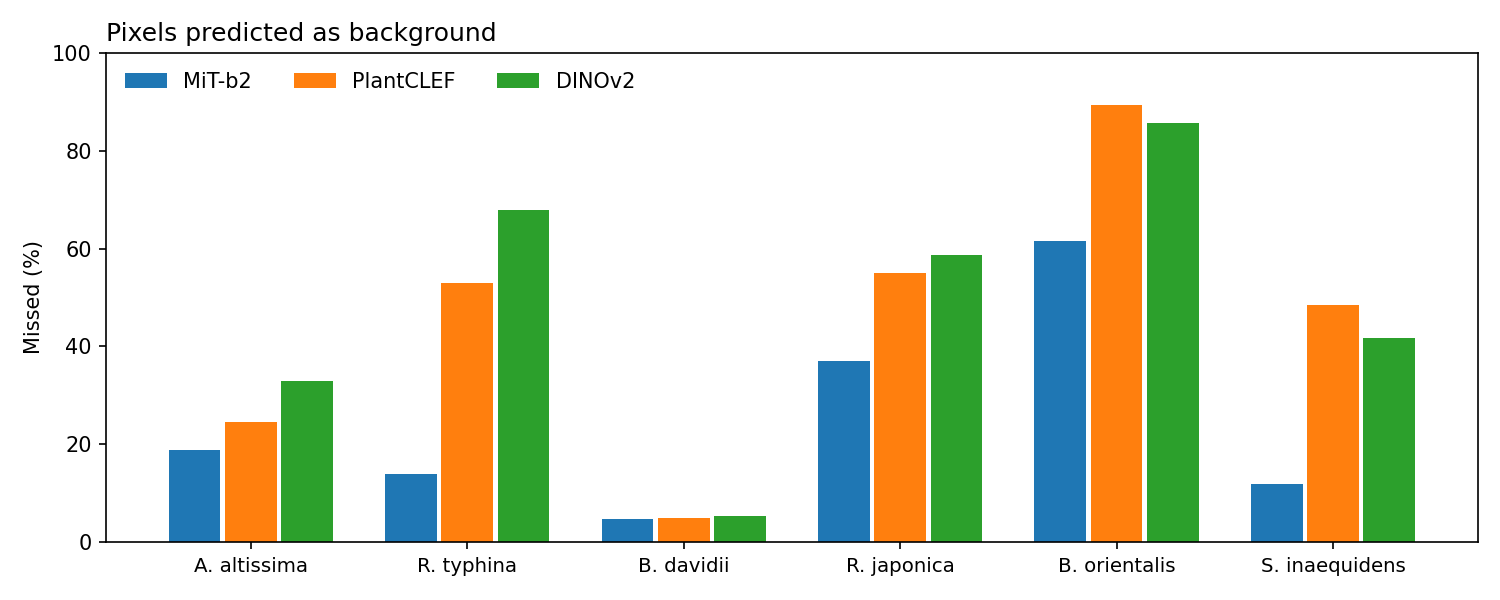
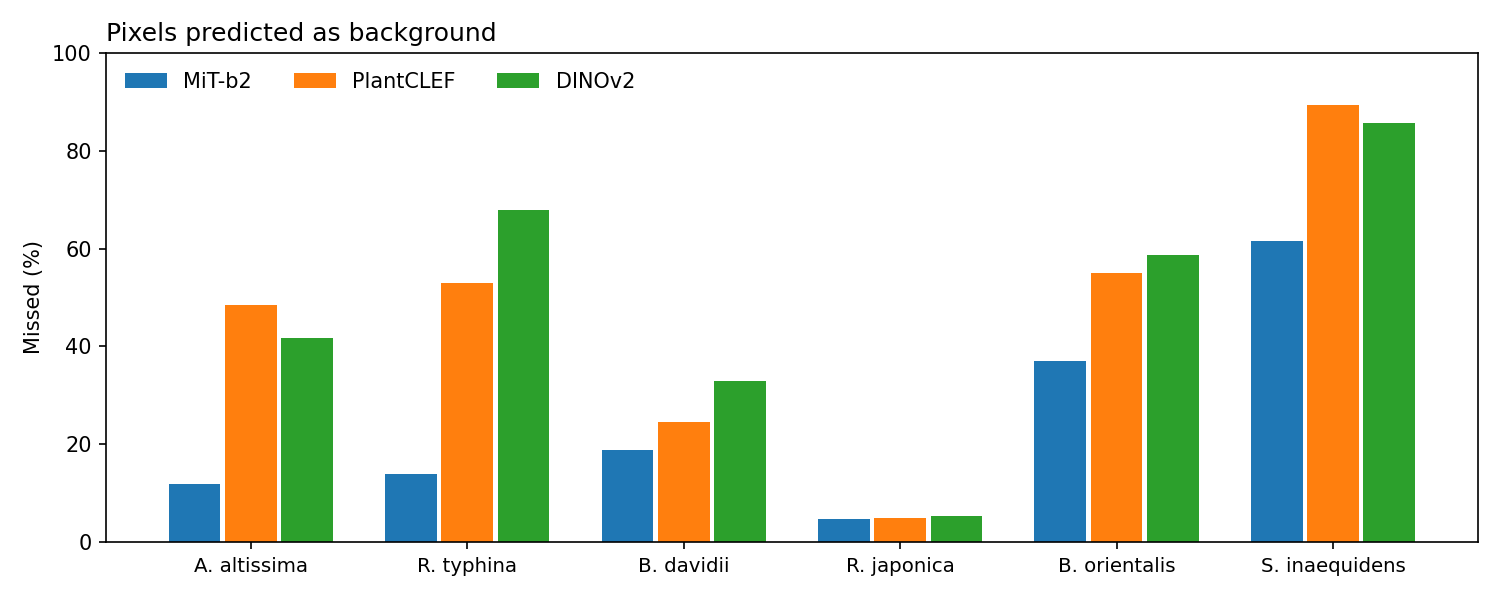
ViT analysis: fix species labels of the missed-pixels figure, add per-species table
plot_vit_512.py read the confusion matrix rows in display order although they
are in class-index order, so 3_missed_as_background.png had the wrong species
under the bars. The analysis note now has the per-species table and says that
the two trees lose the most pixels to background, not only the small herbs.

diff --git a/scripts/plot_vit_512.py b/scripts/plot_vit_512.py
@@ -33,6 +33,10 @@ ENC = {'mit_b2': ('MiT-b2', 'C0'),
        'vitb14_pc24': ('PlantCLEF', 'C1'),
        'vitb14_dinov2': ('DINOv2', 'C2')}
 SPECIES = ['A. altissima', 'R. typhina', 'B. davidii', 'R. japonica', 'B. orientalis', 'S. inaequidens']
+# metrics_semseg.json stores per-class scores in SPECIES (display) order, but
+# confusion_matrix.npy is in class-index order: these are the rows of SPECIES
+# (display_order in configs/data/neophytes_names_colors.yaml)
+CONF_ROWS = [6, 2, 1, 3, 4, 5]
 
 
 def load_runs():
@@ -135,7 +139,8 @@ def plot_missed(runs, out):
     x, w = np.arange(len(SPECIES)), 0.26
     for i, (enc, (name, col)) in enumerate(ENC.items()):
         conf = sum(r['conf'] for r in by_enc(runs, enc))
-        ax.bar(x + (i - 1) * w, 100 * conf[1:, 0] / conf[1:].sum(1), w * 0.92, color=col, label=name)
+        ax.bar(x + (i - 1) * w, 100 * conf[CONF_ROWS, 0] / conf[CONF_ROWS].sum(1), w * 0.92,
+               color=col, label=name)
     ax.set_xticks(x, SPECIES, fontsize=9.5)
     ax.set_ylabel('Missed (%)')
     ax.set_ylim(0, 100)

diff --git a/docs/plantclef2024_vit_analysis_zh.md b/docs/plantclef2024_vit_analysis_zh.md
@@ -13,8 +13,9 @@
 
 ## 0. 一句话结论
 
-ViT 在训练 crop 上拟合得比 b2 还好，但到新站点掉得多，丢的几乎都是**稀疏、细碎、小目标的物种像素（被判成背景）**。
-最可能的主因是 **ViT 最细只有约 3 cm 一个 token，U-Net 的高分辨率 skip 拿不到真实的局部细节**。
+ViT 在训练 crop 上拟合得比 b2 还好，但到新站点掉得多，丢的几乎都是**被判成背景的物种像素**，物种之间的混淆没有变多。
+按物种看，漏检涨得最多的是两种树 **A. altissima、R. typhina** 和小草本 **S. inaequidens**（见 1.3），所以不能简单说成"只丢小目标"。
+最可能的主因是 **ViT 最细只有约 3 cm 一个 token，U-Net 的高分辨率 skip 拿不到真实的局部细节**，但这个假说还解释不了那两种树（见 3.4）。
 "测试时整张 tile 输入、position embedding 插值"和"校准/阈值"可能也有贡献，但还没量化。
 预训练用 PlantCLEF 还是 DINOv2 不是瓶颈，"PlantCLEF 照片里植物在中心"也不是原因。
 
@@ -50,7 +51,15 @@ ViT 在训练 crop 上拟合得比 b2 还好，但到新站点掉得多，丢的
 
 ### 1.3 丢的是哪些像素
 
-- **错误类型**：几乎全是"物种 → 背景"（ViT 的 precision 更高、recall 更低）。物种之间几乎不混淆。
+- **错误类型**：几乎全是"物种 → 背景"（PlantCLEF vs b2：物种平均 recall 0.57 vs 0.77，precision 0.76 vs 0.67）。物种之间的混淆没有变多：两者主要都是 A. altissima → R. typhina（b2 占 A. altissima 像素的 9%，PlantCLEF 5%），但因为 A. altissima 像素多，这部分仍占 PlantCLEF 预测为 R. typhina 的像素的 39%（b2 32%）。
+- **按物种看，被判成背景的像素比例**（4 个 test run 合计，从混淆矩阵算，已复核；10-29 修正了 `3_missed_as_background.png` 的物种标签）：
+
+  | | A. altissima | R. typhina | B. davidii | R. japonica | B. orientalis | S. inaequidens |
+  | --- | --- | --- | --- | --- | --- | --- |
+  | MiT-b2 | 12% | 14% | 19% | 5% | 37% | 62% |
+  | PlantCLEF | 48% | 53% | 25% | 5% | 55% | 89% |
+
+  涨得最多的是两种树（A. altissima、R. typhina），不只是小草本。A. altissima 也是物种 F1 掉得最多的（配对差 −0.187）。
 - **按冠层密度拆 test recall**【未复核】：密度越低，ViT 落后越多；100% 覆盖时两者一样（97.1 vs 97.6）。
 
   | 冠层密度 | 10–30% | 40–60% | 80% | 90% | 100% |
@@ -115,6 +124,7 @@ ViT 这边的几个设计：
   - 错误几乎全是物种 → 背景；
   - 冠层越稀疏，ViT 掉得越多，100% 覆盖时不掉；
   - 小花掉得多。
+- **反面证据**：A. altissima、R. typhina 是大叶的乔木/灌木，漏检比例却涨得最多（12% → 48%，14% → 53%，见 1.3）。只有这些被漏掉的像素主要来自稀疏的幼株或冠层边缘时，H1 才说得通，需要 V0 确认。
 - 为什么训练站点上看不出来：模型可以靠周围环境（上下文）补回来，ViT 的全局 attention 正好擅长这个。到了新站点，环境变了，只能靠局部证据，而 ViT 缺的恰恰是局部证据。这和"val 好、test 差，而且 cv3 差得最多"一致。
 
 **H2：测试时输入尺寸变大、position embedding 插值（③）。有可能，但影响大小未知。**
@@ -129,7 +139,7 @@ ViT 这边的几个设计：
 
 **H4：预训练域差异，主要是尺度和视角。是背景因素，单独不足以解释。**
 - PlantCLEF 照片多是侧面近摄，大约 0.3 mm/px 量级，一个 14 px patch 只是叶片的一小块。我们是正射俯视、2–3 mm/px，一个 patch 是一整片小叶或一个花序，尺度粗了约 10 倍，视角也完全不同。
-- 但冻结阶段 PlantCLEF 明显比 DINOv2 好（0.63–0.68 vs 0.46–0.47），说明植物知识确实能迁移。微调 30 个 epoch 后两者差别进入噪声，说明这点"植物知识"用我们的标签也学得到。
+- 但冻结阶段 PlantCLEF 明显比 DINOv2 好（0.62–0.68 vs 0.46–0.47），说明植物知识确实能迁移。微调 30 个 epoch 后两者差别进入噪声，说明这点"植物知识"用我们的标签也学得到。
 - 所以预训练数据**不是**限制 test F1 的瓶颈；两个 ViT 共有的架构差异（H1、H2）才是。
 
 **H5：LLRD 让浅层几乎冻住（⑤）。证据最弱，只算可能的加重因素。**
@@ -144,6 +154,7 @@ ViT 这边的几个设计：
 ### 3.4 还解释不了的
 
 - **R. typhina 在 val 上大幅下降**：它是大冠层灌木，不是细碎目标，H1 解释不了，H2 或过拟合更像。
+- **A. altissima、R. typhina 在 test 上漏检大涨**（约一半像素被判成背景，b2 只有 12–14%）：两者都不是细碎目标。除非漏掉的主要是稀疏幼株，否则 H1 解释不了。
 - **开花期 S. inaequidens 只有 1.3%**：比 H1 能解释的严重得多，需要先拆到 tile 和站点看。
 - **cv1 几乎打平、cv3 差很多**：说明问题和特定测试站点强相关，需要知道 cv3 的测试站点有什么特殊（更稀疏？更多开花期？）。
 
@@ -156,7 +167,7 @@ ViT 这边的几个设计：
 目标：先用便宜的实验把 H2、H3 的贡献量化出来，并确认现象是否集中在少数 tile，再决定花 GPU 做哪种改进。
 
 ### V0：按 tile 和站点拆开看（CPU，约 1 小时）
-- **做什么**：用已有的 test 预测，算每个 tile 上 b2 和 PlantCLEF 的物种 F1 和 recall，并单独列出开花期 S. inaequidens、B. orientalis 所在的 tile。把 cv3 测试站点的冠层密度和物候分布与 cv1 对比。
+- **做什么**：用已有的 test 预测，算每个 tile 上 b2 和 PlantCLEF 的物种 F1 和 recall，并单独列出开花期 S. inaequidens、B. orientalis 所在的 tile。把 cv3 测试站点的冠层密度和物候分布与 cv1 对比。另外检查 A. altissima、R. typhina 被漏掉的像素是否集中在低冠层密度的 tile：是的话支持 H1，不是的话说明还有别的原因。
 - **为什么**：如果差距由少数 tile 主导（比如某个站点 ViT 整体失效），那主要问题可能是那个站点的光照或季节，而不是普遍的分辨率问题，改进方向会完全不同。
 - **怎么读结果**：
   - 差距均匀分布在各个 tile，并且和冠层密度相关 → 支持 H1；
@@ -350,7 +361,7 @@ python test.py exp_name=<上面 run 的目录名> ckpt_type=best compute_auc=Fal
 
 ### 8.2 这个目标怎样改变前面的结论
 
-- **Encoder 的排序可能反过来。** 标注越少，预训练的作用越大。全量微调后 PlantCLEF 的优势消失了，但在冻结阶段，它的特征远好于 DINOv2（0.63–0.68 vs 0.46–0.47）。只有 10 张标注时更接近后者的情况，所以 PlantCLEF 在少样本下更有可能有用。
+- **Encoder 的排序可能反过来。** 标注越少，预训练的作用越大。全量微调后 PlantCLEF 的优势消失了，但在冻结阶段，它的特征远好于 DINOv2（0.62–0.68 vs 0.46–0.47）。只有 10 张标注时更接近后者的情况，所以 PlantCLEF 在少样本下更有可能有用。
   但 H1（细节分辨率不足）在少样本下依然存在，小草本照样会丢。所以**最有希望的仍然是 b2 + PlantCLEF 融合（6.3 的 F2）**：b2 负责细节，冻结的 PlantCLEF 提供不需要大量标注的植物知识。
 - **nDSM 的意义可能更大。** "高、木本"这类通用规律可以在其他物种上学会，然后迁移到一个新的木本物种，不需要新物种的大量标注。对新的草本物种帮助不大。部署时每次新飞行都要有 DSM/DTM（DSM 来自同一次摄影测量，额外成本不高）。
 - **校准问题会更严重。** 只有 10 张标注时，模型会更偏向判成背景。而且新物种没有 val 标注，第 4 节 V2 那种"在 val 上调偏置"做不了，需要不依赖 val 的方法（比如在 10 张里做留一验证，或者用 logit adjustment）。

diff --git a/docs/plantclef2024_vit_results/README.md b/docs/plantclef2024_vit_results/README.md
@@ -10,9 +10,9 @@ Results of [queue_2026-10-20_vit_pc24.sh](../../scripts/queues/queue_2026-10-20_
 
 - **PlantCLEF vs b2:** mean paired ΔF1 −0.072 over the 4 pairs; A. altissima −0.187. The adoption rule fails, so MiT-b2 stays the encoder.
 - **PlantCLEF vs DINOv2 (s42):** +0.026 on cv3, +0.002 on cv1, within b2's seed noise (~0.04).
-- **Frozen features:** at the last validation with a frozen ViT (epoch 5), PlantCLEF reaches 0.63–0.68 and DINOv2 0.46–0.47. Fine-tuning closes this gap.
+- **Frozen features:** at the last validation with a frozen ViT (epoch 5), PlantCLEF reaches 0.62–0.68 and DINOv2 0.46–0.47. Fine-tuning closes this gap.
 - **Val vs test:** PlantCLEF nearly matches b2 on validation (best 0.79–0.81 vs 0.81–0.82) but drop more on the test sites.
-- **Error type:** almost all ViT errors are species pixels predicted as background (lower recall). Confusion between species is near zero for all three encoders.
+- **Error type:** the ViT's extra errors are species pixels predicted as background (PlantCLEF vs b2: species recall 0.57 vs 0.77, precision 0.76 vs 0.67). Confusion between species does not grow; it is mainly A. altissima → R. typhina in all encoders (b2 9%, PlantCLEF 5% of A. altissima pixels), which makes up 39% of PlantCLEF's R. typhina predictions (b2 32%).
 - Each training run took 6.2–7.5 h and peaked at 8–9 GiB of GPU memory.
 
 ## Figures
